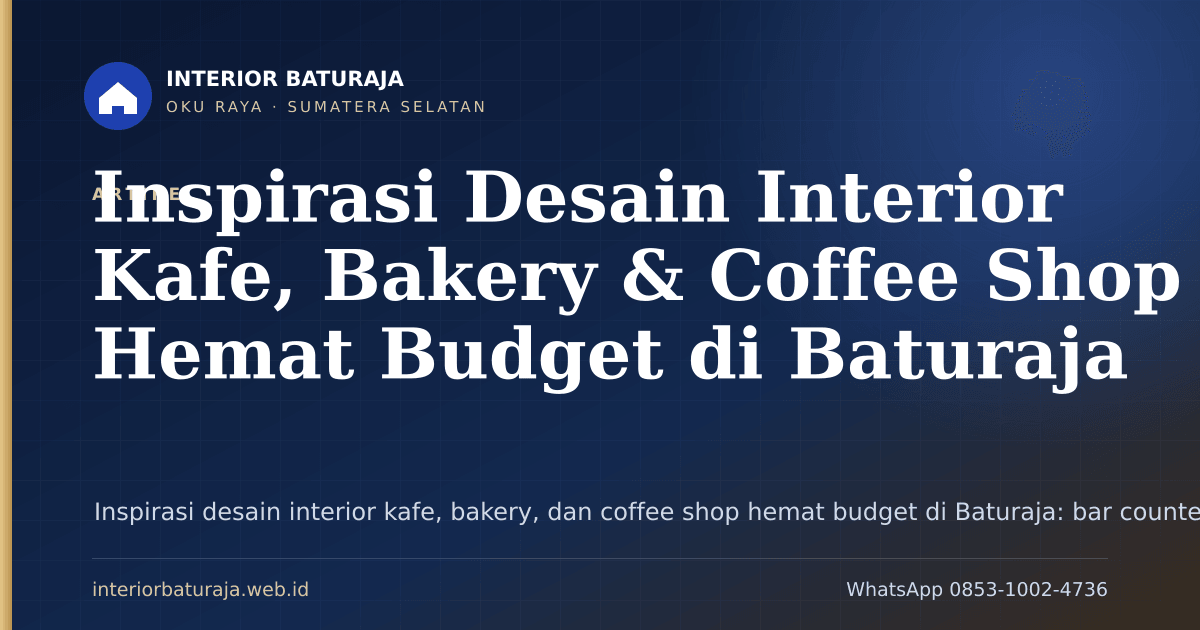
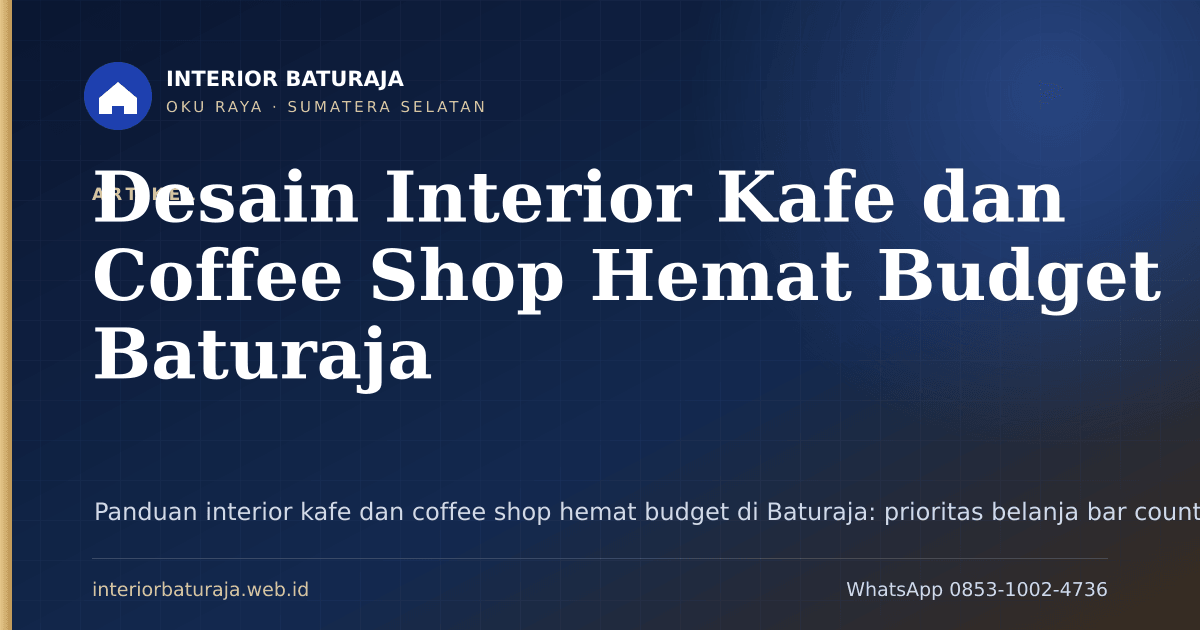
Terbit artikel interior kafe bakery hemat budget; dukung dual category dengan URL kanonik; cardview portofolio di beranda

Changed region(s): [[0.0617, 0.2714, 0.9867, 0.6333], [0.0617, 0.7841, 1.0, 0.8444]]

diff --git a/src/lib/content.ts b/src/lib/content.ts
@@ -13,6 +13,28 @@ export function sortByDate(a: Post, b: Post) {
   return (b.data.pubDate?.valueOf() ?? 0) - (a.data.pubDate?.valueOf() ?? 0);
 }
 
+/** Normalisasi category ke array */
+function categories(p: Post): string[] {
+  return Array.isArray(p.data.category) ? p.data.category : [p.data.category];
+}
+
+export function isBlog(p: Post): boolean {
+  return categories(p).includes('Blog');
+}
+
+export function isPortfolio(p: Post): boolean {
+  return categories(p).includes('Portfolio');
+}
+
+/** Kategori utama penentu URL kanonik: Portfolio menang bila dual */
+export function primaryCategory(p: Post): 'Blog' | 'Portfolio' {
+  return isPortfolio(p) ? 'Portfolio' : 'Blog';
+}
+
+export function categoryLabel(p: Post): string {
+  return primaryCategory(p) === 'Portfolio' ? 'Proyek' : 'Artikel';
+}
+
 /** Semua post yang boleh tampil (bukan draft) */
 export async function getPublishedPosts(): Promise<Post[]> {
   const posts = await getCollection('posts', ({ data }) => !data.draft);
@@ -21,19 +43,19 @@ export async function getPublishedPosts(): Promise<Post[]> {
 
 export async function getBlogPosts(): Promise<Post[]> {
   const posts = await getPublishedPosts();
-  return posts.filter((p) => p.data.category === 'Blog');
+  return posts.filter(isBlog);
 }
 
 export async function getPortfolioPosts(): Promise<Post[]> {
   const posts = await getPublishedPosts();
-  return posts.filter((p) => p.data.category === 'Portfolio');
+  return posts.filter(isPortfolio);
 }
 
 /** Artikel terkait berdasarkan tag yang sama, lalu tanggal terbaru */
 export function relatedPosts(current: Post, all: Post[], limit = 4): Post[] {
   const currentTags = new Set(current.data.tags);
   return all
-    .filter((p) => p.id !== current.id && p.data.category === current.data.category)
+    .filter((p) => p.id !== current.id && primaryCategory(p) === primaryCategory(current))
     .map((p) => ({
       post: p,
       score: p.data.tags.filter((t) => currentTags.has(t)).length,

diff --git a/src/content.config.ts b/src/content.config.ts
@@ -27,7 +27,7 @@ const posts = defineCollection({
     description: z.string(),
     pubDate: z.coerce.date().optional(),
     updatedDate: z.coerce.date().optional(),
-    category: z.enum(['Blog', 'Portfolio']),    tags: z.array(z.enum(POST_TAGS)).min(1),
+    category: z.union([z.enum(['Blog', 'Portfolio']), z.array(z.enum(['Blog', 'Portfolio'])).min(1)]),    tags: z.array(z.enum(POST_TAGS)).min(1),
     targetKeywords: z.array(z.string()).default([]),
     relatedServiceUrl: z.string(),
     heroImage: z.string().optional(),

diff --git a/src/lib/schema.ts b/src/lib/schema.ts
@@ -198,7 +198,9 @@ export function areaServiceSchema(
 }
 
 export function articleSchema(post: Post, url: string) {
-  const isPortfolio = post.data.category === 'Portfolio';
+  const isPortfolio = Array.isArray(post.data.category)
+    ? post.data.category.includes('Portfolio')
+    : post.data.category === 'Portfolio';
   return {
     '@type': isPortfolio ? 'CreativeWork' : 'BlogPosting',
     '@id': `${url}#article`,

diff --git a/src/content/posts/desain-interior-kafe-bakery-hemat-budget-baturaja.md b/src/content/posts/desain-interior-kafe-bakery-hemat-budget-baturaja.md
@@ -1,114 +1,91 @@
 ---
-title: "Inspirasi Desain Interior Kafe, Bakery & Coffee Shop Hemat Budget di Baturaja"
-description: "Inspirasi desain interior kafe, bakery, dan coffee shop hemat budget di Baturaja: bar counter, bench, rak roti, pencahayaan, dan bagian yang tidak boleh dihemat."
+title: "Desain Interior Kafe dan Coffee Shop Hemat Budget Baturaja"
+description: "Panduan interior kafe dan coffee shop hemat budget di Baturaja: prioritas belanja bar counter dan etalase roti, simulasi RAB, material awet, serta build-out bertahap."
+pubDate: 2026-11-22
+heroImage: "/images/blog/desain-interior-kafe-bakery-hemat-budget-baturaja.webp"
 category: "Blog"
 tags: ["Interior Toko, Mall & Booth", "Baturaja"]
-targetKeywords: ["desain interior kafe baturaja", "interior coffee shop hemat budget", "interior bakery", "biaya fit out kafe"]
+targetKeywords: ["desain interior kafe baturaja", "jasa interior coffee shop baturaja", "biaya buka kafe sederhana", "interior bakery hemat budget"]
 relatedServiceUrl: "/layanan/interior-toko-mall-booth-pameran-baturaja/"
+heroAlt: "Bar counter HPL dan etalase roti kaca pada interior coffee shop ruko di Baturaja"
 faqs:
-  - question: "Berapa biaya membuat interior kafe atau coffee shop kecil?"
-    answer: "Untuk area seluas 30 sampai 60 meter persegi, fit-out dengan bar counter, meja, bench, dan pencahayaan berada di kisaran Rp1.500.000 sampai Rp2.800.000 per meter persegi. Angka itu tergantung material, jumlah tempat duduk, dan pekerjaan listrik."
-  - question: "Bagian mana yang sebaiknya tidak dihemat saat membuat kafe?"
-    answer: "Bar counter, rangka tempat duduk, dan instalasi listrik. Tiga bagian ini paling sering rusak lebih dulu dan biaya perbaikannya lebih besar daripada selisih harga material awal."
-  - question: "Apakah bakery butuh rak display khusus?"
-    answer: "Iya. Roti membutuhkan rak dengan sirkulasi udara dan permukaan mudah dibersihkan. Etalase tertutup rapat membuat roti berembun, terutama di ruangan ber-AC."
-  - question: "Berapa lama pembuatan interior kafe?"
-    answer: "Rata-rata 3 sampai 5 minggu setelah desain disetujui, termasuk produksi di workshop dan instalasi di lokasi. Pekerjaan listrik dan plumbing biasanya menjadi bagian yang paling menentukan jadwal."
-draft: true
+  - question: "Berapa modal interior kafe sederhana di Baturaja?"
+    answer: "Untuk fit-out tahap pertama kafe ruko berukuran sekitar 80 meter persegi, angka yang masuk akal ada di kisaran Rp25 sampai Rp45 juta. Rinciannya mencakup bar counter, etalase roti, pencahayaan, dan pengecatan. Nilai akhirnya tetap tergantung ukuran, material, dan aksesori yang dipilih setelah survei."
+  - question: "Apakah kafe harus tutup selama pengerjaan interior?"
+    answer: "Tidak harus. Produksi modul dilakukan di workshop, sehingga di lokasi hanya ada pemasangan. Pekerjaan bisa dipecah per zona dan jadwal bongkar pasang menyesuaikan jam operasional kafe atau jam tetangga ruko."
+  - question: "Material apa yang paling awet untuk bar counter kafe?"
+    answer: "Multipleks 18mm dengan finishing HPL lebih tahan daripada particle board. Permukaannya tidak mudah menggelembung karena tumpahan kopi dan sekrupnya tidak cepat dol. Untuk area sink dan bar belakang yang sering basah, PVC board 18mm lebih aman lagi."
 ---
 
-Kafe di Baturaja jarang mulai dari ruang kosong yang sempurna. Sebagian menempati ruko lama dengan plafon rendah, sebagian lagi memakai rumah yang diubah, dan tidak sedikit yang berbagi bangunan dengan usaha lain. Anggaran biasanya terbatas, tetapi keinginan untuk terlihat menarik tetap ada.
+Ada pola yang berulang di kafe-kafe kecil di Baturaja. Modal utama habis untuk dekorasi dinding, lampu hias, dan tanaman. Begitu buka, masalah muncul dari arah lain: etalase roti pakai kaca biasa yang retak saat disentuh anak, bar counter dari partisi lama yang permukaannya menggelembung karena tumpahan susu, dan lampu putih dingin bikin roti kelihatan pucat.
 
-Kondisi itu sebenarnya bukan hambatan. Beberapa kafe dengan biaya paling efisien yang kami kerjakan justru lahir dari ruang yang terbatas, karena semua keputusan harus jelas: apa yang dipakai pelanggan, apa yang dipakai staf, dan mana yang bisa ditunda.
+Interior kafe sebenarnya bukan soal dekorasi. Untuk desain interior kafe baturaja yang beroperasi di ruko dengan budget terbatas, dua elemen yang paling menentukan keputusan beli pelanggan justru bar counter dan display produk. Dua-duanya perlu dikerjakan lebih dulu, dan dua-duanya butuh material yang benar.
 
-## Mulai dari jumlah kursi, bukan dari tema
+## Prioritas belanja dari yang wajib ke yang bisa nanti
 
-Keputusan pertama bukan warna atau motif. Yang pertama adalah berapa kursi yang bisa dilayani dengan nyaman oleh dapur dan bar yang ada.
+Cara paling cepat menghemat budget adalah memisahkan pekerjaan menjadi dua fase. Fase pertama adalah yang menyangkut produksi dan keamanan. Fase kedua boleh ditunda sampai omzet jalan.
 
-Kafe kecil dengan 20 kursi dan satu barista bisa berjalan lancar. Kafe dengan 45 kursi tetapi bar hanya selebar 1,8 meter akan menumpuk pesanan pada jam ramai. Dari pengalaman kami, bar dengan lebar minimal 2,4 meter sudah cukup untuk satu mesin espresso, satu area penyajian, dan satu titik pembayaran.
+**Fase pertama (wajib sebelum buka):**
 
-Setelah jumlah kursi ditetapkan, baru layout dibuat:
+- Bar counter dengan ukuran dan ketinggian yang sesuai alur kerja barista
+- Etalase roti atau display kue dengan kaca tempered
+- Pencahayaan display, terutama track light di atas etalase
+- Jalur listrik untuk mesin espresso, oven, dan chiller
+- Meja kursi untuk kapasitas minimal
 
-- **Zona masuk dan pesan** di depan, dengan jalur yang tidak memotong area duduk.
-- **Bar** di sisi yang terlihat dari pintu, karena bar adalah panggung utama coffee shop.
-- **Area duduk** dibagi menjadi meja pendek dan bench panjang.
-- **Area staf** di balik bar, dengan akses ke tempat cuci.
-- **Toilet dan storage** di bagian belakang, tidak dilewati pelanggan.
+**Fase kedua (boleh menyusul):**
 
-## Bagian yang bisa dihemat
+- Wallpanel WPC atau kisi-kisi kayu di dinding foto
+- Plafon gantung dan lampu hias
+- Area selfie atau mural
+- Perab tambahan di lantai dua
 
-Ada beberapa komponen yang aman untuk ditekan biayanya tanpa merusak pengalaman pelanggan.
+Urutan ini bukan teori. Pemilik yang mengerjakan fase dua lebih dulu biasanya mengulang biaya, karena bar counter yang salah ukuran harus dibongkar dan itu berarti membayar dua kali.
 
-**Dinding.** Cat tekstur atau panel HPL motif beton hanya pada satu sisi sebagai aksen. Sisi lain cukup cat. Ini menghemat cukup banyak dibanding melapisi seluruh dinding.
+## Simulasi angka untuk kafe ruko dua lantai
 
-**Tempat duduk.** Bench panjang berbahan multipleks 18mm dengan bantalan busa lebih murah per kursi dibanding kursi individual. Bench juga membuat ruangan terlihat lebih rapi.
+Sebagai gambaran, ambil kasus ruko dua lantai di sekitar Pasar Baru dengan area operasional sekitar 80 meter persegi. Semua angka di bawah adalah rentang estimasi, bukan harga final, karena nilai sesungguhnya baru bisa ditarik setelah survei ukuran.
 
-**Meja.** Top table multipleks dengan HPL motif kayu sudah cukup. Tidak perlu marmer untuk meja yang setiap hari kena gelas basah.
+| Item | Spesifikasi | Satuan | Estimasi |
+| --- | --- | --- | --- |
+| Bar counter | Multipleks 18mm, HPL, laci dan ruang mesin | m¹ | Rp1.800.000 - Rp2.600.000 |
+| Etalase roti | Kaca tempered, rangka besi, LED strip | unit | mulai Rp4.500.000 |
+| Track light display | LED warm white 3000K, rel 2 meter | set | Rp1.500.000 - Rp2.500.000 |
+| Partisi dan wallpanel | Multipleks + HPL atau WPC | m² | Rp1.700.000 - Rp2.500.000 |
+| Meja resepsionis/kasir | HPL, LED strip, laci | m¹ | Rp2.000.000 - Rp2.800.000 |
+| Pengecatan dan plafon ringan | Perbaikan permukaan | m² | Rp150.000 - Rp350.000 |
 
-**Dekorasi.** Rak dinding terbuka untuk cangkir dan tanaman memberi kesan hidup tanpa biaya besar. Yang penting raknya dipasang ke dinding dengan penopang yang benar.
+Bar counter tiga meter dan etalase satu unit saja sudah menyerap sekitar sepuluh juta. Setelah pencahayaan, partisi, dan finishing, fase pertama umumnya bergerak di kisaran Rp25 sampai Rp45 juta. Angka ini masih jauh lebih terkendali dibanding fit-out toko penuh 3 sampai 5 minggu yang mencakup semua zona.
 
-**Pencahayaan.** Satu jenis lampu gantung di atas bar dan LED strip di bawah rak sudah membentuk suasana. Tidak perlu banyak titik dengan warna berbeda.
+![Etalase roti kaca tempered dengan display pastry di counter HPL coffee shop Baturaja](/images/blog/desain-interior-kafe-bakery-hemat-budget-baturaja-2.webp)
 
-## Bagian yang sebaiknya tidak dihemat
+Untuk lokasi di luar Baturaja seperti Muara Enim atau Prabumulih, biaya transportasi dan akomodasi tim dihitung terpisah dan selalu tertulis di RAB sebelum DP.
 
-**Bar counter.** Ini bagian yang paling sering dipakai dan paling terlihat. Rangka yang kurang kuat akan terasa bergoyang saat barista menyandarkan tangan. Permukaan HPL tipis akan tergores dalam hitungan bulan.
+## Material yang tahan ritme kerja kafe
 
-**Rangka tempat duduk.** Bench dengan rangka kayu tanpa penopang tengah akan melengkung setelah beberapa bulan dipakai. Kami biasanya menambahkan rangka besi hollow di bagian dalam.
+Kafe punya ritme kerja yang lebih keras dari toko biasa. Tumpahan kopi, uap susu, kelembapan dari sink, dan beban mesin espresso membuat pemilihan material bukan soal selera.
 
-**Instalasi listrik.** Kafe memakai banyak peralatan dengan beban besar: mesin espresso, grinder, kulkas display, dan oven. Titik listrik yang kurang akan memaksa pemakaian ekstensi, yang berisiko dan berantakan.
+**Bar counter.** Struktur kami memakai multipleks 18mm dengan finishing HPL, bukan particle board. Particle board di bar counter hampir selalu gagal dalam satu sampai dua tahun: permukaan menggelembung karena tumpahan cairan dan sekrupnya dol sehingga top table goyang. Untuk bagian belakang yang sering basah, PVC board 18mm high density lebih aman lagi karena tidak menyerap air.
 
-**Lantai area basah.** Area cuci dan bar sering terkena tumpahan. Vinyl atau keramik lebih baik daripada lantai kayu di area ini.
+**Etalase roti.** Kacanya wajib tempered, bukan kaca biasa. Etalase bakery adalah satu-satunya perabut yang disentuh pelanggan setiap hari, termasuk anak-anak. Kaca tempered pecahnya butiran kecil, bukan pecahan tajam panjang.
 
-## Bakery: roti butuh sirkulasi, bukan kaca rapat
+**Pencahayaan.** Track light warm white 3000K di atas display membuat roti terlihat kecokelatan alami. Lampu 6500K yang putih dingin membuat pastry tampak pucat dan tidak segar. Di area bar, LED strip 3000K di bawah top counter cukup untuk suasana tanpa bikin mata barista lelah.
 
-Bakery punya kebutuhan berbeda dari coffee shop. Display roti bukan sekadar etalase, tetapi alat penjualan.
+Dua hal di lapangan yang sering dilupakan: daya listrik untuk mesin espresso dan oven perlu dihitung dari awal, dan akses ruko yang sempit menentukan apakah modul counter dibuat utuh atau terpisah. Keduanya dicek saat survei, bukan saat instalasi.
 
-Beberapa hal yang kami terapkan:
+## Build-out bertahap tanpa menutup kafe
 
-- **Rak display dengan alas rotan atau kawat** agar udara bisa lewat di bawah roti.
-- **Kaca depan tanpa penutup rapat** untuk roti yang dijual cepat, supaya tidak berembun.
-- **Etalase tertutup dengan ventilasi kecil** untuk kue basah yang perlu perlindungan.
-- **Lampu 3000K** di atas display, cukup terang untuk melihat warna kulit roti tanpa membuatnya terlihat pucat.
-- **Meja kerja dan rak baki** di belakang, dengan jalur pendek ke display agar roti tidak melewati area pelanggan.
+Kalau kafe sudah berjalan dan hanya ingin memperbarui sebagian, pekerjaan tidak perlu menutup operasional. Pola yang kami pakai mirip dengan renovasi toko pada umumnya: semua pemotongan dan finishing dikerjakan di workshop di Banding Agung, jadi debu dan bau lem tidak masuk ke area pelanggan. Pemasangan di lokasi dipecah per zona, dan zona yang lain tetap beroperasi.
 
-Satu kesalahan yang sering kami temukan: rak roti dibuat terlalu dalam sehingga roti di baris belakang tertinggal dan tidak terjual. Kedalaman 30–35 sentimeter sudah cukup untuk sebagian besar produk bakery.
+Alurnya lima tahap. Konsultasi awal lewat WhatsApp dengan foto dan ukuran kasar, survei untuk cek dinding, lantai, dan jalur listrik, desain 3D beserta RAB per item, produksi di workshop, lalu instalasi dan serah terima dengan garansi konstruksi tertulis. Durasi produksi untuk pekerjaan skala kafe umumnya satu sampai tiga minggu setelah desain disetujui.
 
-## Material yang masuk akal untuk anggaran terbatas
+## Checklist sebelum pilih vendor fit-out kafe
 
-| Komponen | Pilihan hemat | Pilihan lebih tahan |
-| --- | --- | --- |
-| Bar counter | Multipleks 18mm + HPL | Rangka besi + panel HPL + top table granit |
-| Meja pelanggan | Multipleks + HPL motif kayu | Top table solid atau granit |
-| Bench | Rangka kayu + busa | Rangka hollow + busa density tinggi |
-| Dinding aksen | Cat tekstur | Panel HPL atau WPC |
-| Pencahayaan | Lampu gantung + LED strip | Track light + dimmer per zona |
-| Lantai | Vinyl lembaran | Keramik motif kayu atau homogen tile |
+- Vendor punya workshop sendiri, bukan sekadar makelar yang lempar pekerjaan
+- RAB dirinci per item dengan satuan jelas, bukan satu angka paket
+- Spesifikasi material tertulis: ketebalan multipleks, merek HPL, jenis kaca
+- Vendor paham kebutuhan listrik mesin espresso, oven, dan chiller
+- Ada garansi konstruksi dan penyetelan tertulis di dokumen serah terima
+- Jadwal pemasangan menyesuaikan jam operasional kafe dan tetangga ruko
 
-Pilihan di kolom kiri bukan berarti murahan. Untuk kafe yang baru berjalan, material tersebut sudah memadai. Yang penting adalah pemasangan rapi dan sambungan tertutup.
-
-## Tiga denah yang sering dipakai
-
-**Denah memanjang.** Cocok untuk ruko 4 × 12 meter. Bar di sisi kiri sepanjang 3 meter, bench di sisi kanan, meja kecil di tengah. Jalur pelanggan lurus dari pintu ke kasir.
-
-**Denah huruf L.** Cocok untuk ruang sudut. Bar di satu sisi, area duduk di sisi lain, dengan satu meja besar komunal di tengah sebagai daya tarik.
-
-**Denah pulau.** Cocok untuk ruang lebar. Bar di tengah, kursi mengelilingi, dan display roti di sisi masuk. Denah ini butuh jalur listrik dan plumbing yang matang karena bar berada jauh dari dinding.
-
-## Waktu dan urutan pekerjaan
-
-Fit-out kafe umumnya memakan 3 sampai 5 minggu setelah desain disetujui. Urutan yang kami pakai:
-
-1. Pekerjaan listrik dan plumbing dasar.
-2. Pemasangan rangka bar dan bench.
-3. Panel dan finishing HPL.
-4. Pemasangan top table.
-5. Pencahayaan dan penyetelan.
-6. Pembersihan dan serah terima.
-
-Pekerjaan listrik dan plumbing hampir selalu menjadi penentu. Kalau titik air untuk bar belum ada, pekerjaan kayu bisa selesai tetapi kafe belum bisa buka.
-
-## Penutup
-
-Kafe yang hemat budget bukan kafe yang serba murah. Ia kafe yang tahu bagian mana yang menentukan pengalaman pelanggan dan bagian mana yang bisa ditunda. Bar yang kokoh, tempat duduk yang tidak melengkung, dan pencahayaan yang tepat akan terasa jauh lebih penting daripada dinding berlapis material mahal.
-
-Untuk melihat contoh pekerjaan fit-out, buka [portofolio](/portfolio/). Lingkup pekerjaan toko dan booth ada di halaman [interior toko, mall, dan booth pameran](/layanan/interior-toko-mall-booth-pameran-baturaja/). Kirim denah dan target anggaran lewat [kontak kami](/kontak/) untuk pembahasan awal.
+Kami adalah [interior baturaja](/) workshop interior dan fit-out komersial yang mengerjakan produksi modular untuk kafe, bakery, dan toko di OKU Raya, mulai dari bar counter sampai display. Lihat [layanan interior toko, mall, dan booth](/layanan/interior-toko-mall-booth-pameran-baturaja/) untuk rincian lingkup kerja, atau langsung konsultasi lewat WhatsApp di 0853-1002-4736. Konsultasi awal dan estimasi kasar tidak dipungut biaya.

diff --git a/RENCANA-KONTEN.md b/RENCANA-KONTEN.md
@@ -59,7 +59,7 @@ Total: **60 konten** dalam satu koleksi `src/content/posts/` (dibedakan frontmat
 | 39 | Booth Pameran Knock-Down untuk Instansi dan UMKM | Blog | `booth-pameran-knock-down-instansi-umkm-oku-raya.md` |
 | 40 | Renovasi Interior Toko: Rak Display, Etalase & Kasir | Blog | `renovasi-interior-toko-rak-display-etalase-kasir.md` |
 | 41 | Standar Rak Display dan Meja Racik Apotek & Kosmetik | Blog | `standar-rak-display-meja-racik-apotek-kosmetik.md` |
-| 42 | Desain Interior Kafe, Bakery & Coffee Shop Hemat Budget | Blog | `desain-interior-kafe-bakery-hemat-budget-baturaja.md` |
+| 42 | ~~Desain Interior Kafe, Bakery & Coffee Shop Hemat Budget~~ (Terbit 2026-11-22, judul final: Desain Interior Kafe dan Coffee Shop Hemat Budget Baturaja) | Blog | `desain-interior-kafe-bakery-hemat-budget-baturaja.md` |
 | 43 | Interior Mess Karyawan & Kantor Kontraktor Tambang | Blog | `interior-mess-karyawan-kantor-tambang-tanjung-enim.md` |
 | 44 | Tips Desain Pencahayaan Etalase dan Rak Display | Blog | `tips-pencahayaan-etalase-rak-display-toko.md` |
 | 45 | Kontraktor Interior Homestay, Villa & Restoran Danau Ranau | Blog | `kontraktor-interior-homestay-villa-danau-ranau.md` |
